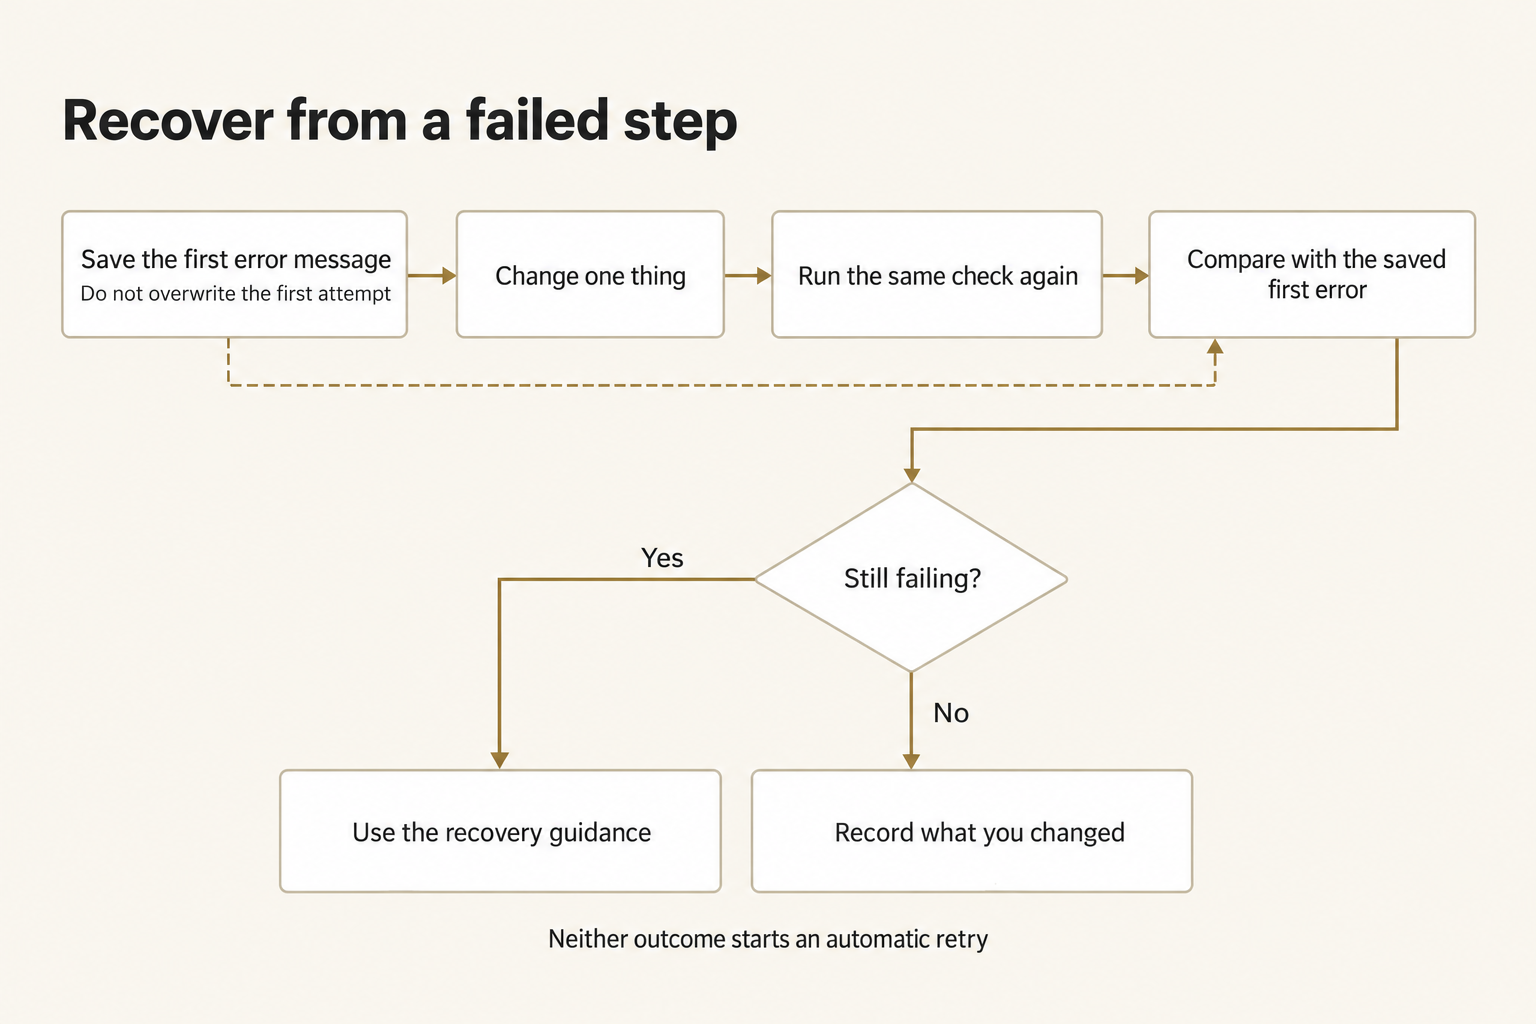
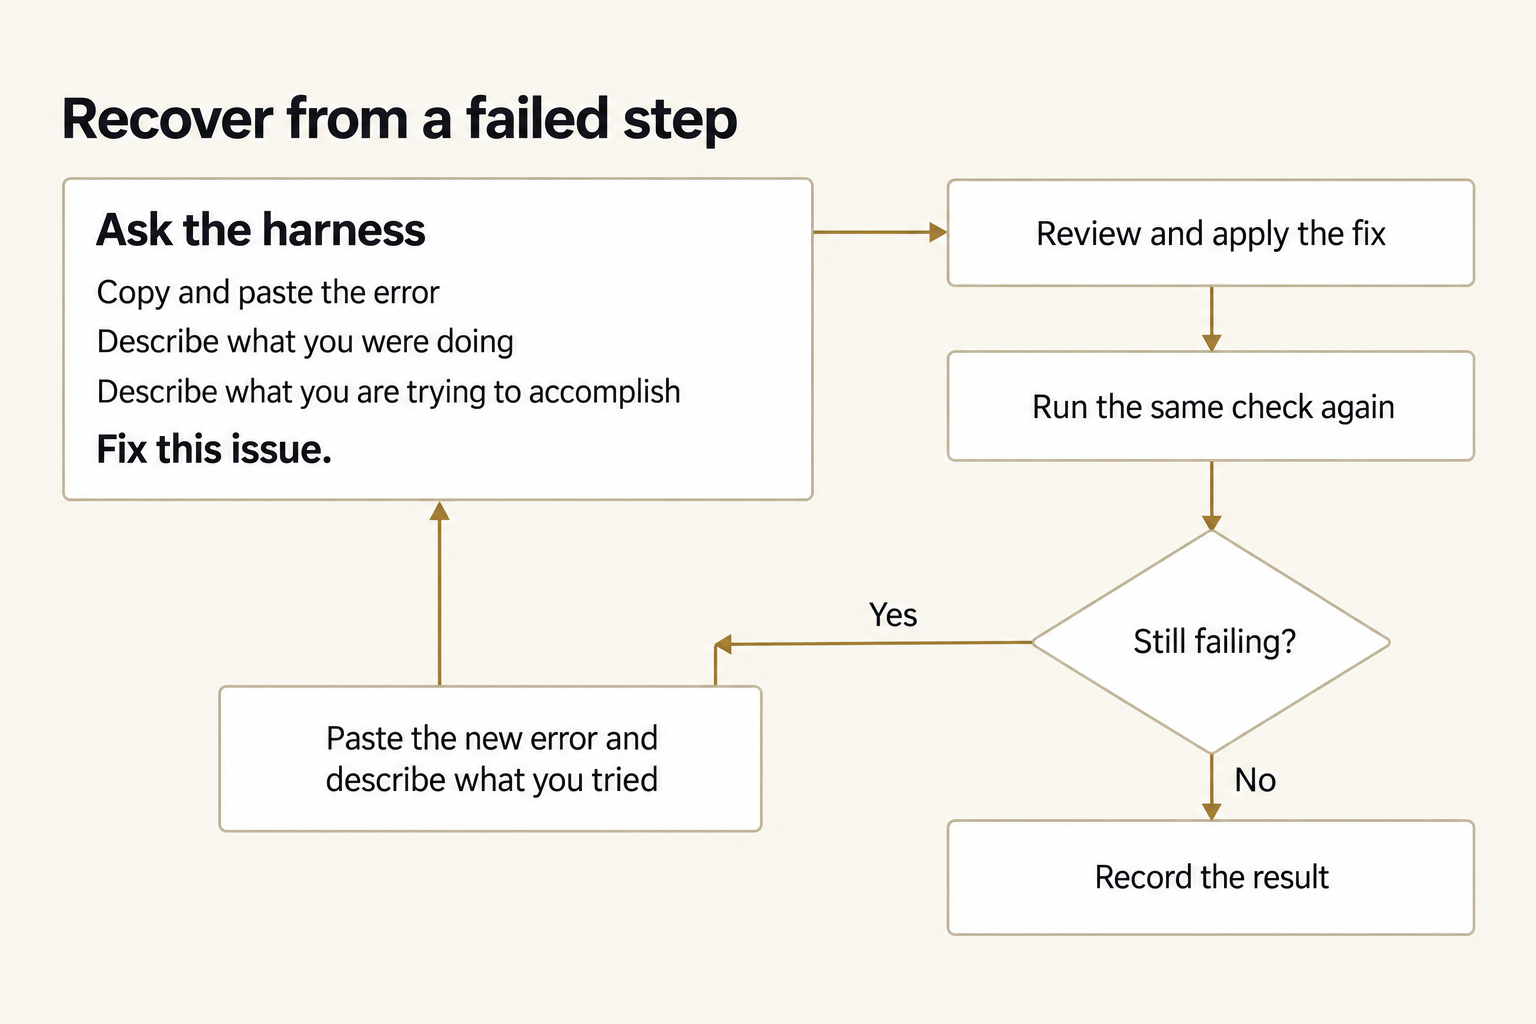
Revise Module 0 harness-guided recovery

diff --git a/AI_Harness_Bootcamp_2/module-00-setup/figures/RASTER_PROMPTS.md b/AI_Harness_Bootcamp_2/module-00-setup/figures/RASTER_PROMPTS.md
@@ -262,45 +262,52 @@ Before returning, check every text element is present, spelled exactly, and noth
 ## m00-recovery-loop
 
 - Title: Recover from a failed step
[1 lines of base64/hex data omitted]
-- Accepted attempt: 02 of 2
-- Earlier attempts were rejected in review for relationship or layout defects; the last revision requirements are included at the end of the prompt.
[1 lines of base64/hex data omitted]
+- Accepted replacement: 01 of 1, generated with Codex CLI 0.154.0 through its built-in `image_gen` tool.
[1 lines of base64/hex data omitted]
+- Review: all thirteen labels are present and correctly spelled. The Yes branch returns new evidence to the harness; the No branch records the result. The existing light course-figure style is retained.
 
 ### Final prompt
 
 ````text
 $imagegen
-Use the built-in image_gen tool to generate exactly ONE PNG instructional diagram. Do not write code or SVG. Return the absolute saved PNG path.
+Use the built-in image_gen tool to generate exactly ONE PNG instructional flow diagram. Do not write code or SVG. Save the finished PNG as /tmp/aihb-m00-recovery.VPoavF/recovery-loop.png and return that absolute path. Do not edit repository sources. Do not run tests, builds, linters, or formatters.
 
-VISUAL STYLE (strict):
-- Flat, clean technical diagram like a figure in a professional training manual or consulting report (think McKinsey/Stripe documentation). 1536x1024 landscape.
-- Opaque solid warm off-white background #FAF7F0. No texture, no grid, no vignette, no gradients, no glow, no shadows, no 3D, no shine, no decorative icons, no illustrations.
-- Boxes: white fill #FFFFFF, 1.5px solid border #C9C1B0, small 6px corner radius. Header strips or emphasis: deep ink #2B2A27 text; one accent colour, muted ochre #9A7B3C, for arrows and key borders; muted red #A23B2C only for stop/blocked items; muted green #4E6B3A only for allowed items. Arrows thin (2px), solid, simple arrowheads.
-- Typography: one clean sans-serif (Inter or Helvetica style), sentence case everywhere (no ALL CAPS except code tokens and status words like HELD/BREACHED), title 44px semibold at top-left, labels 26-30px regular, generous padding, consistent spacing, aligned grid.
-- Render every text string exactly as given, once, spelled correctly. Add no other words, numbers, logos or captions.
+This is a revision of the attached course diagram, not a new visual identity. Preserve the existing course figure's light, clean style. The subject is a learner using an AI harness to solve a setup error. Teach the work itself: no curriculum rationale, making-of commentary, grades, scores, or qualification claims.
 
-TITLE (top-left): "Recover from a failed step"
+VISUAL STYLE:
+- 1536x1024 landscape, opaque warm off-white background #FAF7F0.
+- Match the attached figure: white panels #FFFFFF, thin border #C9C1B0, small corner radius, deep ink text #2B2A27, muted ochre #9A7B3C arrows and key borders. No new style, scene, photographic effects, decorative icons, gradients, texture, glow, shadows, 3D, logos, or invented data.
+- One clean sans-serif; sentence case; title 44px semibold at top-left; labels 26-30px, generous padding, aligned layout. Make every label legible.
+- Render every label below exactly once, except that Yes and No label their respective decision edges. Do not invent, abbreviate, or add any labels.
 
-TEXT ELEMENTS (each exactly once unless the layout says a token repeats; verbatim):
-- "Save the first error message"
-- "Do not overwrite the first attempt"
-- "Change one thing"
-- "Run the same check again"
-- "Compare with the saved first error"
-- "Still failing?"
-- "Yes"
-- "No"
-- "Use the recovery guidance"
-- "Record what you changed"
-- "Neither outcome starts an automatic retry"
+TITLE:
+"Recover from a failed step"
+
+LABEL SET:
+Main instruction panel:
+"Ask the harness"
+"Copy and paste the error"
+"Describe what you were doing"
+"Describe what you are trying to accomplish"
+"Fix this issue."
+Other flow nodes:
+"Review and apply the fix"
+"Run the same check again"
+"Still failing?"
+"Paste the new error and describe what you tried"
+"Record the result"
+Decision edges:
+"Yes"
+"No"
 
 LAYOUT AND RELATIONSHIPS:
-Top row, left to right, solid arrows meaning 'then': box 'Save the first error message' (sub-line 'Do not overwrite the first attempt') → 'Change one thing' → 'Run the same check again' → 'Compare with the saved first error'. A separate dashed line runs from the first box along the bottom of the row into 'Compare with the saved first error', meaning 'used as the reference'. It is the only other link to the saved error, so the error stays outside the correction path. From the compare box, a solid arrow goes down to the diamond 'Still failing?'. Orthogonal branches: 'Yes' to 'Use the recovery guidance', 'No' to 'Record what you changed', side by side. No arrow returns from either outcome to the check. A small footnote centred under both outcomes reads 'Neither outcome starts an automatic retry'. Same neutral style for all boxes; no red emphasis border; no grid.
+The dominant panel occupies the upper-left half. Its heading is Ask the harness; the next three lines are equally readable supporting instructions; Fix this issue. is the final emphasized line inside that same panel. Do not draw arrows between the lines: they are parts of one request, not separate actions.
+A single right-pointing arrow leaves this panel to Review and apply the fix in the upper-right. A down arrow leads to Run the same check again, then another down arrow to the diamond Still failing?. The Yes edge leaves the LEFT vertex of the diamond for a lower-left box reading Paste the new error and describe what you tried; a clear return arrow from that box goes back to the main Ask the harness panel. This is the learner returning with new evidence. The No edge leaves a DIFFERENT vertex for Record the result, at the lower-right, with no return arrow from success. Place Yes and No on their own distinct edges. Keep connectors outside boxes, uncrossed, and away from text. Use the available canvas evenly with generous margins.
 
-REVISION REQUIREMENTS (a previous attempt was rejected; fix all of these):
-- Both outcome branches leave the bottom vertex of 'Still failing?' as one shared vertical stem. The stem splits about 40 px below the diamond. The 'No' label sits beside that shared stem (x≈1393, y≈655), so it labels a segment that the Yes path also uses. The decision therefore has no unambiguous Yes exit and No exit. The bottom-left half of the canvas is also empty, which leaves the layout weighted to the right. Regenerate with 'Yes' leaving the diamond's left vertex and dropping to 'Use the recovery guidance'. 'No' should leave the bottom vertex straight down to 'Record what you changed', with each label on its own edge. Optionally shift the diamond and the outcome pair left so they sit under the middle of the top row. Keep all text, the dashed reference line and the footnote unchanged.
+Do not retain any old labels such as Change one thing, Use the recovery guidance, or Neither outcome starts an automatic retry. The revised diagram must visibly include the full error + action + goal + explicit fix request, not just generic troubleshooting advice.
 
-Before returning, check every text element is present, spelled exactly, and nothing else was added.
+Before returning, inspect all labels and arrows. Every stated label must appear, spelled exactly. The two decision edges must be unambiguous. Do not report an image as completed without actually generating it.
 ````
 
 ## m00-responsibility-screen

diff --git a/AI_Harness_Bootcamp_2/module-00-setup/README.md b/AI_Harness_Bootcamp_2/module-00-setup/README.md
@@ -40,23 +40,31 @@ Module 7 uses the local visual workflow editor. You don't need n8n Cloud or an A
 
 - Keep at least 15 GB free; WSL should have 25 GB.
 - Get administrator approval for operating-system packages.
-- Keep existing Docker contexts, containers, volumes, applications, and setup attempts. Resolve an occupied port 5678 or existing `$HOME/n8n-course` with its owner before installation.
-- Keep credentials in the approved password manager or secure handoff.
-- **Do not paste a key into a command, Markdown file, shell profile, screenshot, ticket, or repository.**
-- If policy blocks a step on a managed laptop, stop and save the exact message for device support.
+
 
 ## When a step fails
 
-Save the first error before changing anything. Follow [When setup stops](shared/TROUBLESHOOTING.md), change one thing, and rerun the failed check.
+Copy and paste the error into the harness. Describe what you were doing when the error appeared and what you are trying to accomplish, then ask it to fix the issue:
 
-![Save the first error before changing anything, change one thing, and rerun the same check.](shared/figures/m00-recovery-loop.png)
+```text
+I'm trying to: [describe the outcome you want].
+I was doing this when the error appeared: [describe the command or action].
+Here is the error:
+[paste the error message]
 
-*Save the first error before changing anything, change one thing, and rerun the same check.*
+Fix this issue.
+```
+
+Review and apply the fix, then rerun the failed check. If it still fails, paste the new error into the same conversation and explain what you tried. If the harness itself cannot start, use [When setup stops](shared/TROUBLESHOOTING.md).
+
+![Give the harness the error, what you were doing, and your goal. Ask it to fix the issue, then check the result.](shared/figures/m00-recovery-loop.png)
+
+*Give the harness the error, what you were doing, and your goal. Ask it to fix the issue, then check the result.*
 
 <details markdown="1">
 <summary>Figure text</summary>
 
-Keep the first error and do not overwrite the first attempt. Change one thing, run the same check, then compare the result with the saved first error. If the problem remains, use the recovery guidance; if it is resolved, record what changed. Neither outcome starts an automatic retry.
+Copy and paste the error into the harness, describe what you were doing and what you are trying to accomplish, and ask “Fix this issue.” Review and apply the fix, then run the same check again. If it still fails, return to the harness with the new error and what you tried. If it succeeds, record the result.
 
 </details>
 

diff --git a/AI_Harness_Bootcamp_2/module-00-setup/shared/TROUBLESHOOTING.md b/AI_Harness_Bootcamp_2/module-00-setup/shared/TROUBLESHOOTING.md
@@ -1,6 +1,8 @@
 # When setup stops
 
-Start with the first failed action. Save its exact error and last good observation before changing anything. Don't reinstall tools or discard the checkout.
+Start with the first failed action. Copy and paste its error into the harness, describe what you were doing when it appeared, and explain what you are trying to accomplish. Finish with **“Fix this issue.”**
+
+Review and apply the fix, then rerun the failed check. If it still fails, paste the new error into the same conversation and describe what you tried. Keep the earlier error so you can compare the results. If the harness itself cannot start, find the symptom below.
 
 ## Choose the next action from the observed failure
 
@@ -131,4 +133,4 @@ Whether any output or forbidden effect appeared:
 
 Redact personal paths, account IDs, internal hosts, and credentials from what you share. Keep command names, versions, exit codes, and the first error. An exposed key must be revoked; deleting it from a screenshot does not revoke access.
 
-Make one targeted correction, then repeat the failed check. If you cannot explain a correction, a rollback fails, or device policy blocks the action, record `HOLD` and contact the responsible owner. Do not disable certificate checks, Gatekeeper, antivirus, or protected filesystem permissions to force progress.
+Give the harness the support packet along with your goal and the request **“Fix this issue.”** After you review and apply the fix, repeat the failed check and report the result in the same conversation. If you cannot explain a correction, a rollback fails, or device policy blocks the action, record `HOLD` and contact the responsible owner. Do not disable certificate checks, Gatekeeper, antivirus, or protected filesystem permissions to force progress.
